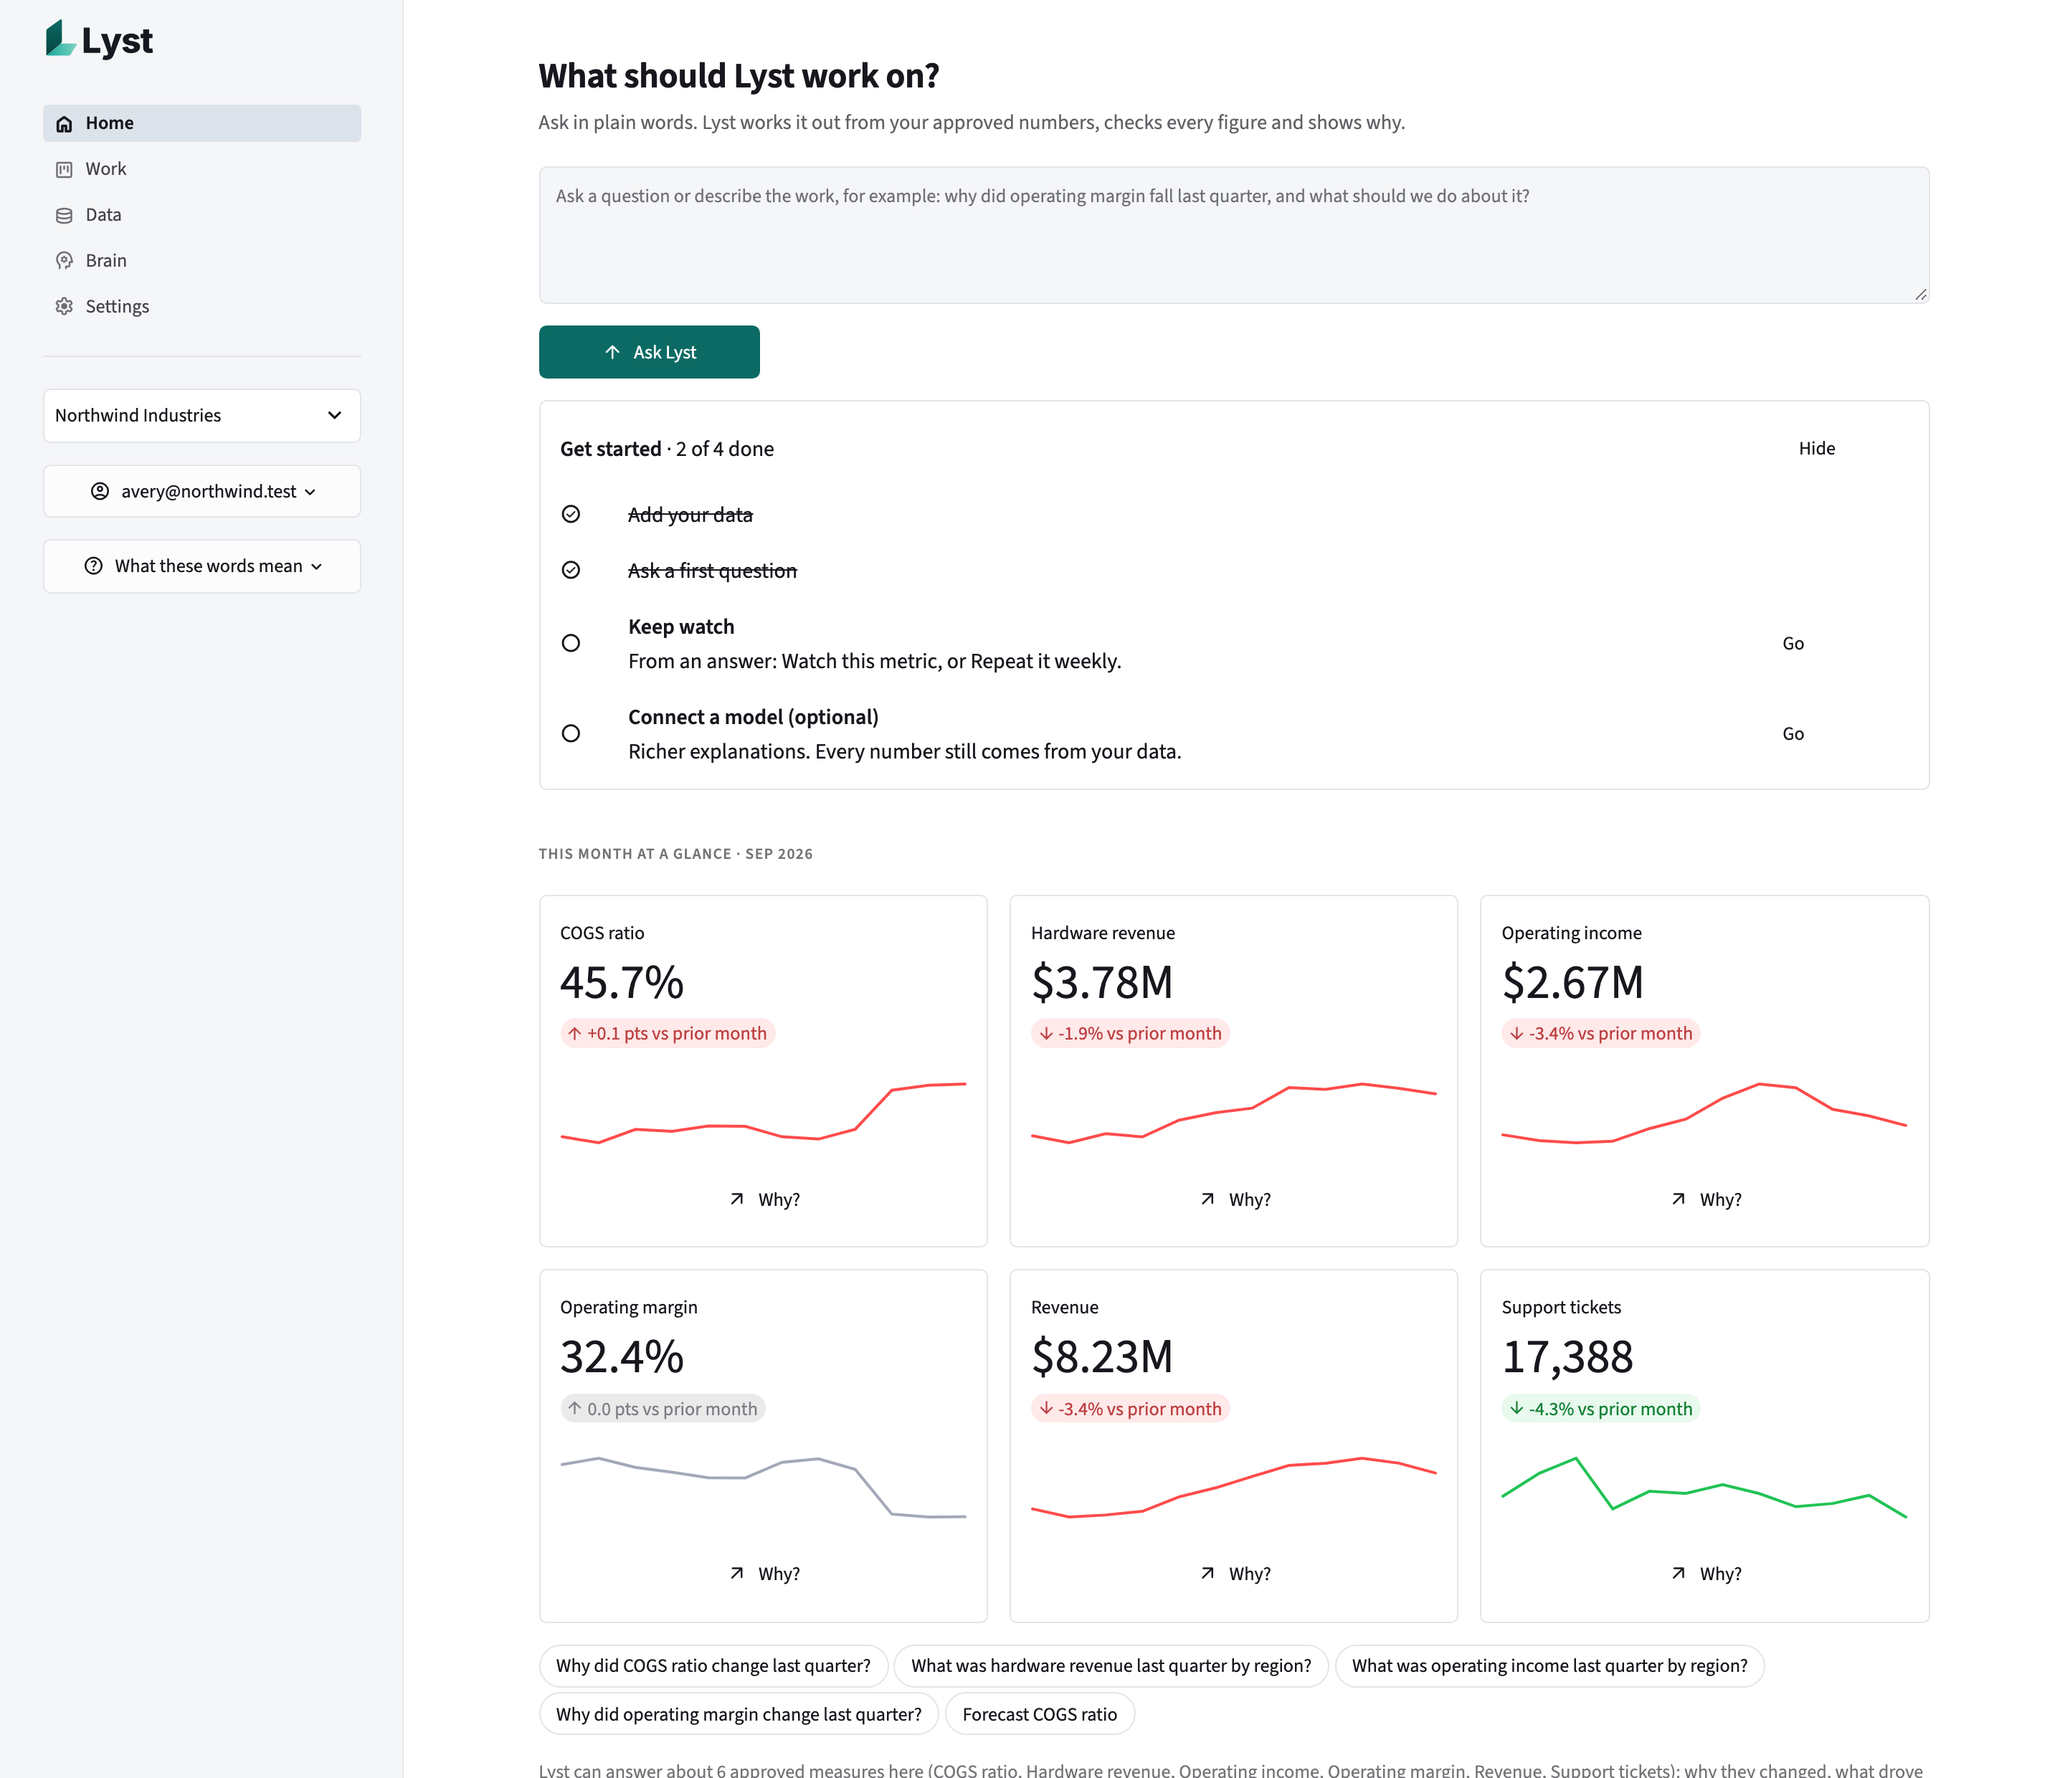
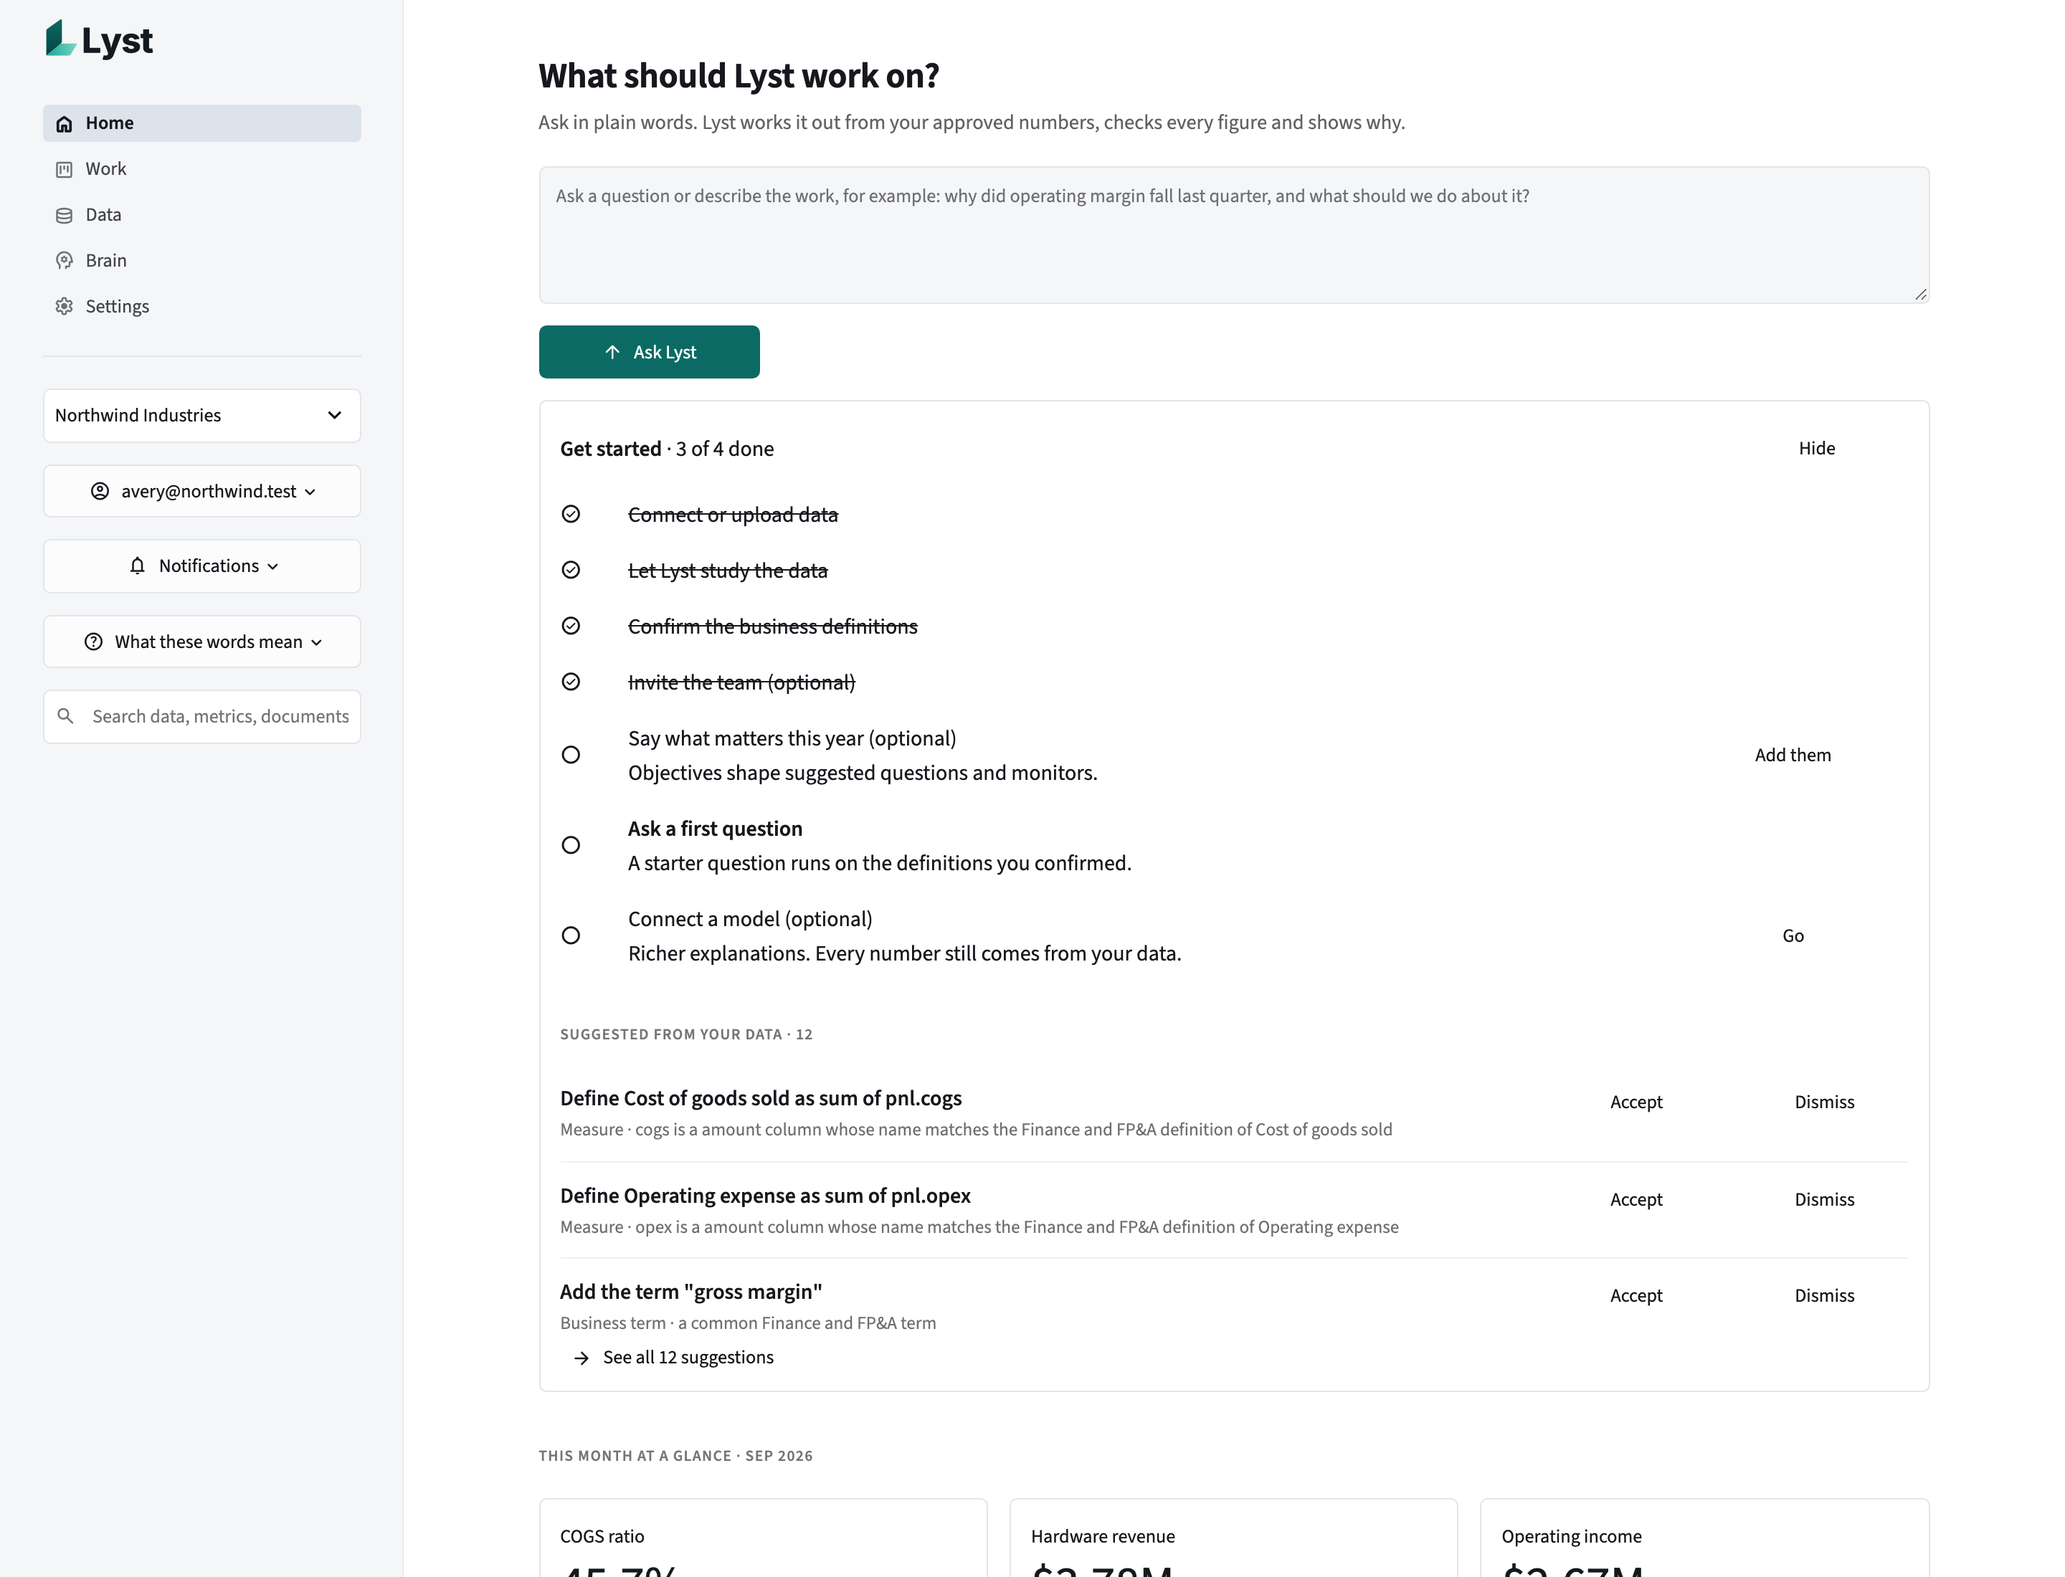
README: onboarding screens (#53) and Build a dataset (#55)
Retakes Home with the state-driven Get started card and suggestions from the data,
adds a Build a dataset screenshot with its checks passing, and describes
Suggestions in Data and the Business profile in Settings.

diff --git a/README.md b/README.md
@@ -53,14 +53,14 @@ saved work and documents, plus a "What these words mean" glossary.
 
 | Area | What you do there |
 |---|---|
-| **Home** | Ask in plain words, follow live progress, and read the answer. A Get started card guides the first run, and "This month at a glance" shows a tile per approved metric with a one-click **Why?** |
+| **Home** | Ask in plain words, follow live progress, and read the answer. A Get started card follows the workspace's real set-up state and shows the top suggestions from your data to accept or dismiss, and "This month at a glance" shows a tile per approved metric with a one-click **Why?** |
 | **Work** | What needs you (approvals), what Lyst is doing and finished, and what runs on its own: watched metrics, scheduled questions and what Lyst noticed |
 | **Data** | Datasets with a trust chip each, their sources, dashboards, saved analyses, and guarded SQL. **Add data** uploads a file or connects a source |
 | **Brain** | What Lyst knows about the business: approved metrics and business terms with their health and lineage, documents it can cite, and what it remembers and how far to trust it |
 | **Settings** | Models (level and costs), Connections (keys and sources), Workspace (members, autonomy, audit trail) and Advanced (skills, capabilities, evaluation runs) |
 
 <p align="center">
-  <img src="docs/images/home.png" alt="Home: the ask box, the Get started card and this month's metric tiles" width="80%">
+  <img src="docs/images/home.png" alt="Home: the ask box, and the Get started card with set-up steps and suggestions from the data to accept or dismiss" width="80%">
 </p>
 
 ### Every answer: Summary, Detail, Method, and a Brief
@@ -250,8 +250,9 @@ where they point, with Mark all read and "What to tell me about".
   official until an administrator accepts it through the usual governed, versioned and audited path. A versioned
   business profile holds the chosen industries, the organization's own words for its metrics (so "outlay"
   resolves to the approved spend metric), its fiscal year, reporting period and objectives. A short guided set-up
-  shows what to do next, and Lyst measures time to first dataset, first analysis and first verified answer.
-  Available through the API; screens are on the way ([docs/ADAPTABILITY.md](docs/ADAPTABILITY.md)).
+  shows what to do next, and Lyst measures time to first dataset, first analysis and first verified answer. On
+  screen: the Get started card on Home, **Suggestions** in Data › Datasets (with **Study the data again**), and
+  the industry picker and **Business profile** in Settings › Workspace ([docs/ADAPTABILITY.md](docs/ADAPTABILITY.md)).
 * **One analyst, many specializations.** Lyst stays one analyst that assembles the expertise a request needs from
   136 specialization profiles in 11 domains (data and BI, statistics, AI and ML, software, cloud, security,
   finance and operations, marketing, media, science and industry, and more), backed by a shared library of 34
@@ -416,12 +417,17 @@ where they point, with Mark all read and "What to tell me about".
   columns are not mostly empty, and summed measures reconcile with their inputs. Fragile SQL is flagged and each
   query's inputs, joins and grouping are explained. With a model configured, it can be designed from a sentence
   (the model sees names, types and relationships, never rows). It reruns when an input gets a new version, keeps
-  the last good version if a run fails, and carries lineage to every input.
+  the last good version if a run fails, and carries lineage to every input. On screen: Data › Datasets › **Build a
+  dataset from data Lyst has** (describe it or write the query, **Run and check**, then **Save as a dataset**), and
+  a built dataset's Overview says in words how it is made, with **Run again** and **Retire**.
 
 <table>
   <tr>
     <td width="50%"><img src="docs/images/recurring.png" alt="Work, Recurring: a daily schedule and a Monday 08:00 America/New_York schedule, both awaiting approval"><br><b>Recurring</b>: calendar schedules with their next run</td>
     <td width="50%"><img src="docs/images/usage-limits.png" alt="Settings, Usage and limits: model spend, tokens and tasks against the limits"><br><b>Usage & limits</b>: spend and work against the limits</td>
+  </tr>
+  <tr>
+    <td colspan="2" align="center"><img src="docs/images/build-dataset.png" alt="Build a dataset: a query by month and region, run and checked: rows, one row per key, revenue and COGS add up to their source" width="70%"><br><b>Build a dataset</b>: checked before it is saved</td>
   </tr>
 </table>
 
